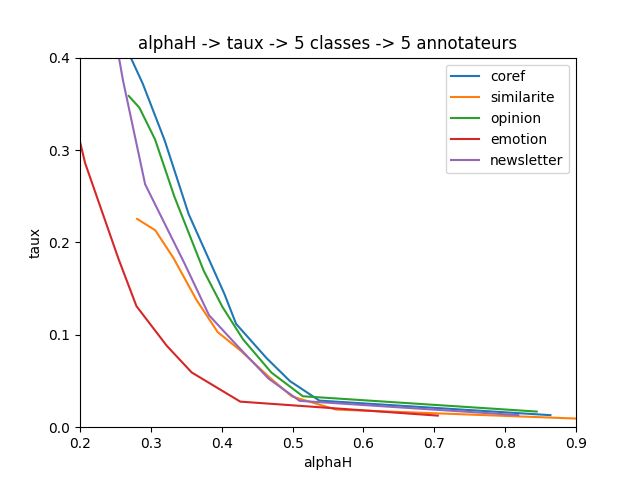
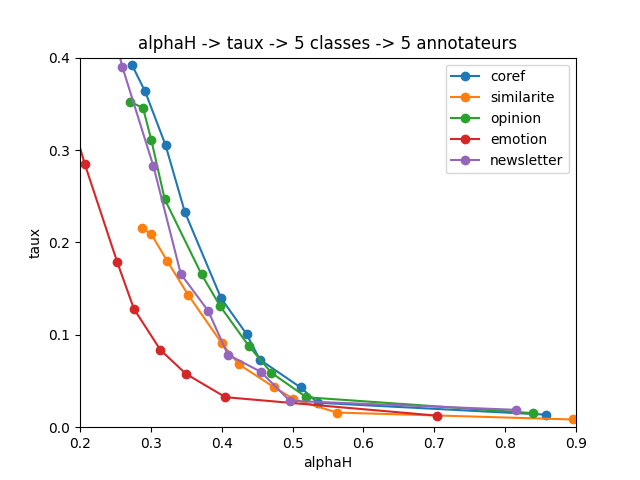
ajout des points

diff --git a/outils_distances.cpp b/outils_distances.cpp
@@ -331,25 +331,7 @@ void vect_desaccords_annotation_aleatoire(int nbA,int nbIt,int nbC,int Vrand[]) 
     else cout << "desaccords aleatoires : calcul ou simulation à faire\n";
 }
 
-/*********************************************************
-indice de distribution des classes (prévalence) */
-/*
-float indicedistriclasse(int T[MAXIT][MAXA], int nbA, int nbIt, int nbC) {
-  float Tobs[nbC], Texp[nbC];
-  float Vexp = 1.0 / nbC;
-  for (int c = 0; c < nbC; c++) {
-    Texp[c] = Vexp;
-    Tobs[c] = 0;
-  }
-  for (int it = 0; it < nbIt; it++)
-    for (int a = 0; a < nbA; a++) {
-      int c = T[it][a];
-      Tobs[c]++;
-    }
-  for (int c = 0; c < nbC; c++)
-    Tobs[c] = 1.0 * Tobs[c] / (nbA * nbIt);
-  return khi_deux(Tobs, Texp, nbC);
-}*/
+
 
 //-----DISTANCES ENTRE DISTRIBUTIONS-----
 
@@ -472,6 +454,16 @@ float chi2_vect_entier(int v1[], int v2[], int nbIt) {
   return 1.0 * sum;
 }
 
+// chi2 distance
+float chi2_vect_reel(float v1[], float v2[], int nbIt) {
+  float sum;
+  for (int it = 0; it < nbIt; it++) {
+    if (v2[it] != 0)
+      sum += ((v1[it] - v2[it]) * (v1[it] - v2[it])) / v2[it];
+  }
+  return 1.0 * sum;
+}
+
 // Kullback-Leibler Divergence
 float KL_vect_entier(int v1[], int v2[], int nbIt) {
   float sum;
@@ -560,6 +552,26 @@ float L2_vect_entier(int v1[], int v2[], int nbIt) {
   return 1.0 * sum;
 }
 
+/*********************************************************
+indice de distribution des classes (prévalence) */
+
+float indicedistriclasse(int T[MAXIT][MAXA], int nbA, int nbIt, int nbC) {
+  float Tobs[nbC], Texp[nbC];
+  float Vexp = 1.0 / nbC;
+  for (int c = 0; c < nbC; c++) {
+    Texp[c] = Vexp;
+    Tobs[c] = 0;
+  }
+  for (int it = 0; it < nbIt; it++)
+    for (int a = 0; a < nbA; a++) {
+      int c = T[it][a];
+      Tobs[c]++;
+    }
+  for (int c = 0; c < nbC; c++)
+    Tobs[c] = 1.0 * Tobs[c] / (nbA * nbIt);
+  return chi2_vect_reel(Tobs, Texp, nbC);
+}
+
 float distance_vect_entier(int v1[],int v2[],int nbIt) {
     float res=0;
     for (int it=0;it<nbIt;it++) {
@@ -621,7 +633,7 @@ float distance_taux_distri_hasard(int T[MAXIT][MAXA], int nbA, int nbIt, int nbC
         else
           (Treel[ind])++;
     }
-    return L2_vect_entier(Tcomb, Treel, 7);
+    return H_vect_entier(Tcomb, Treel, 7);
   }
   else {
     cout << "pas de calcul prévu pour distance_taux_distri_hasard\n ";

diff --git a/simulation_sur_distri_reelles_2021_05.cpp b/simulation_sur_distri_reelles_2021_05.cpp
@@ -492,8 +492,8 @@ void affiche_res_series(int nbval,float tauxErparAnnot[],float moymtauxErRef[],f
 void write_res_series(string corpus, int nbval, float moykappa[], float moyalpha[], float moymtauxErRef[], float distancemoytaux_distri_hasard[]) {
   string nomfich1 = "./res/kappa_" + corpus + ".csv";
   string nomfich2 = "./res/alpha_" + corpus + ".csv";
-  string nomfich3 = "./res/alphaL2_" + corpus + ".csv";
-  string nomfich4 = "./res/kappaL2_" + corpus + ".csv";
+  string nomfich3 = "./res/alphaH_" + corpus + ".csv";
+  string nomfich4 = "./res/kappaH_" + corpus + ".csv";
   ofstream file1(nomfich1.c_str());
   ofstream file2(nomfich2.c_str());
   ofstream file3(nomfich3.c_str());
@@ -501,8 +501,8 @@ void write_res_series(string corpus, int nbval, float moykappa[], float moyalpha
   if (file1 && file2 && file3 && file4) {
     file1 << "kappa,taux" << endl;
     file2 << "alpha,taux" << endl;
-    file3 << "alphaL2,taux" << endl;
-    file4 << "kappaL2,taux" << endl;
+    file3 << "alphaH,taux" << endl;
+    file4 << "kappaH,taux" << endl;
     for (int nb = 0; nb < nbval; nb++) {
       file1 << moykappa[nb] << "," << moymtauxErRef[nb]  << endl;
       file2 << moyalpha[nb] << "," << moymtauxErRef[nb] << endl;
